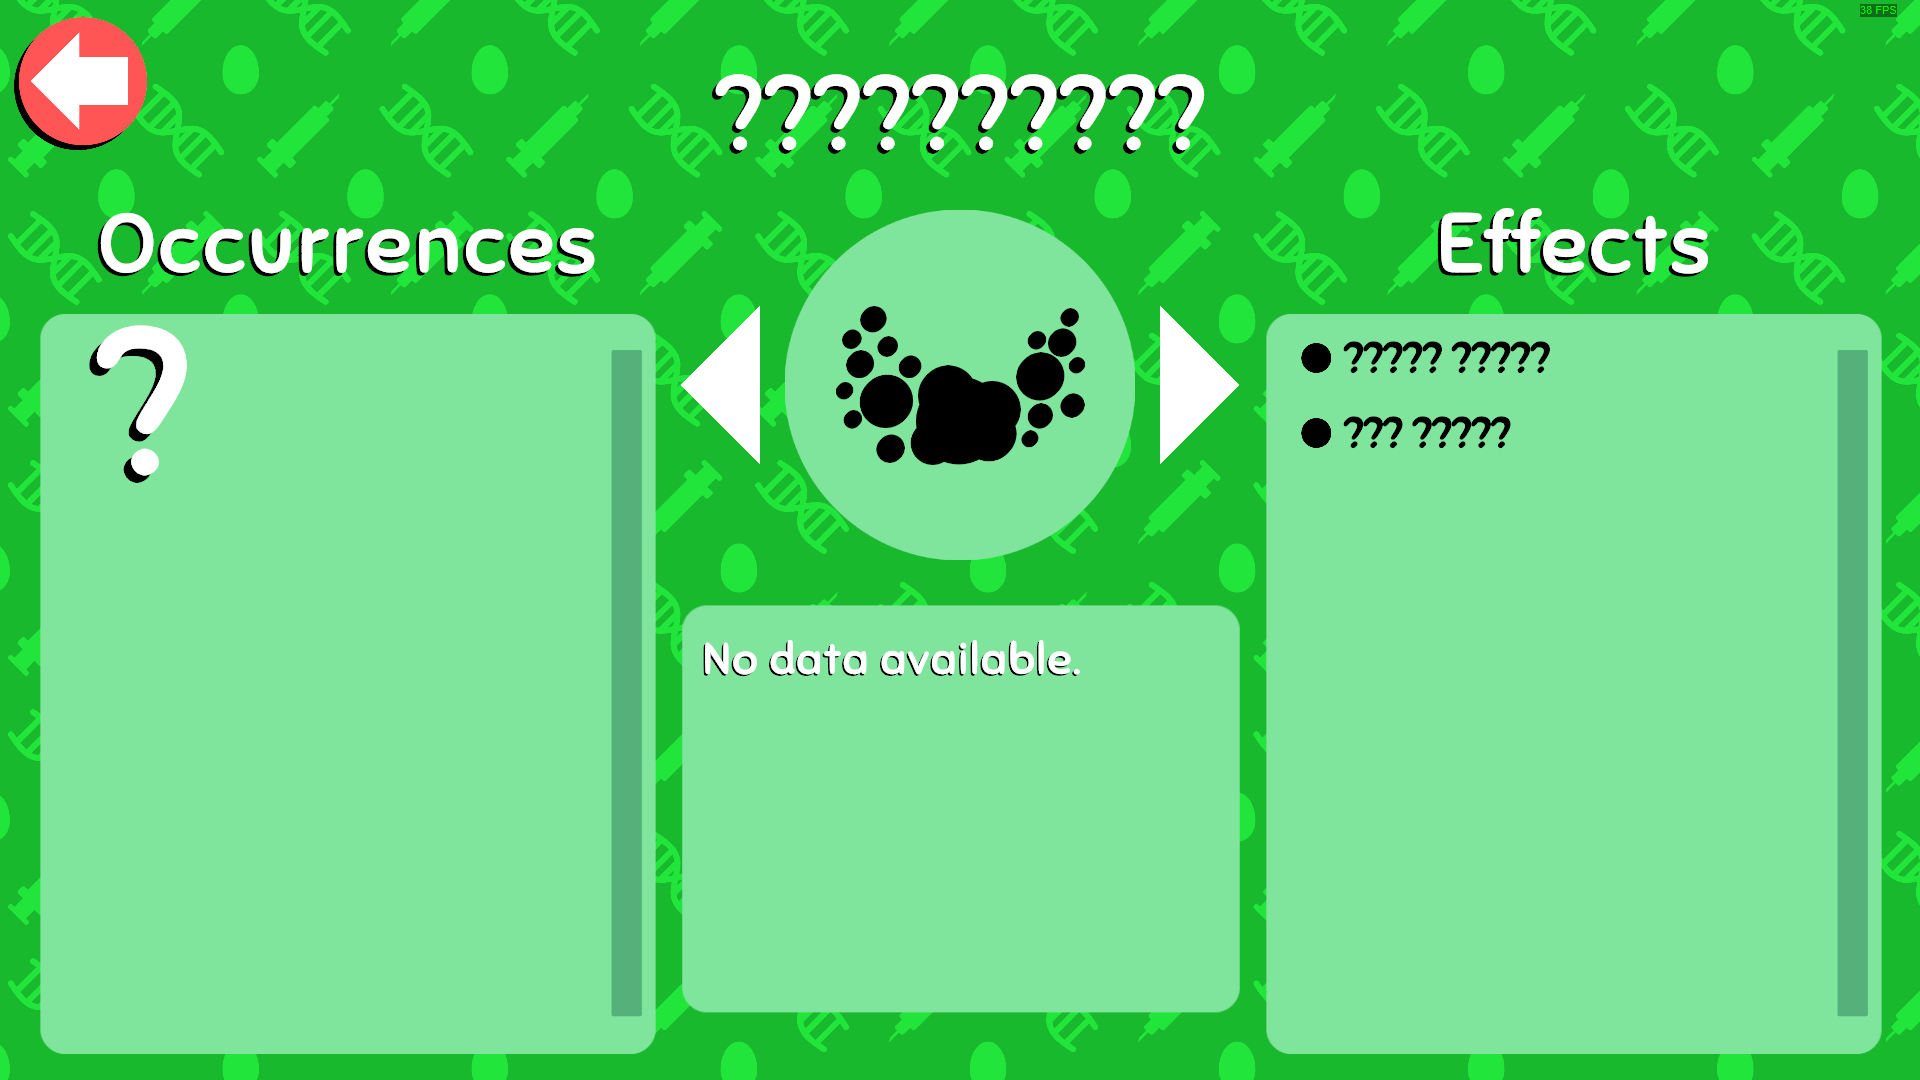
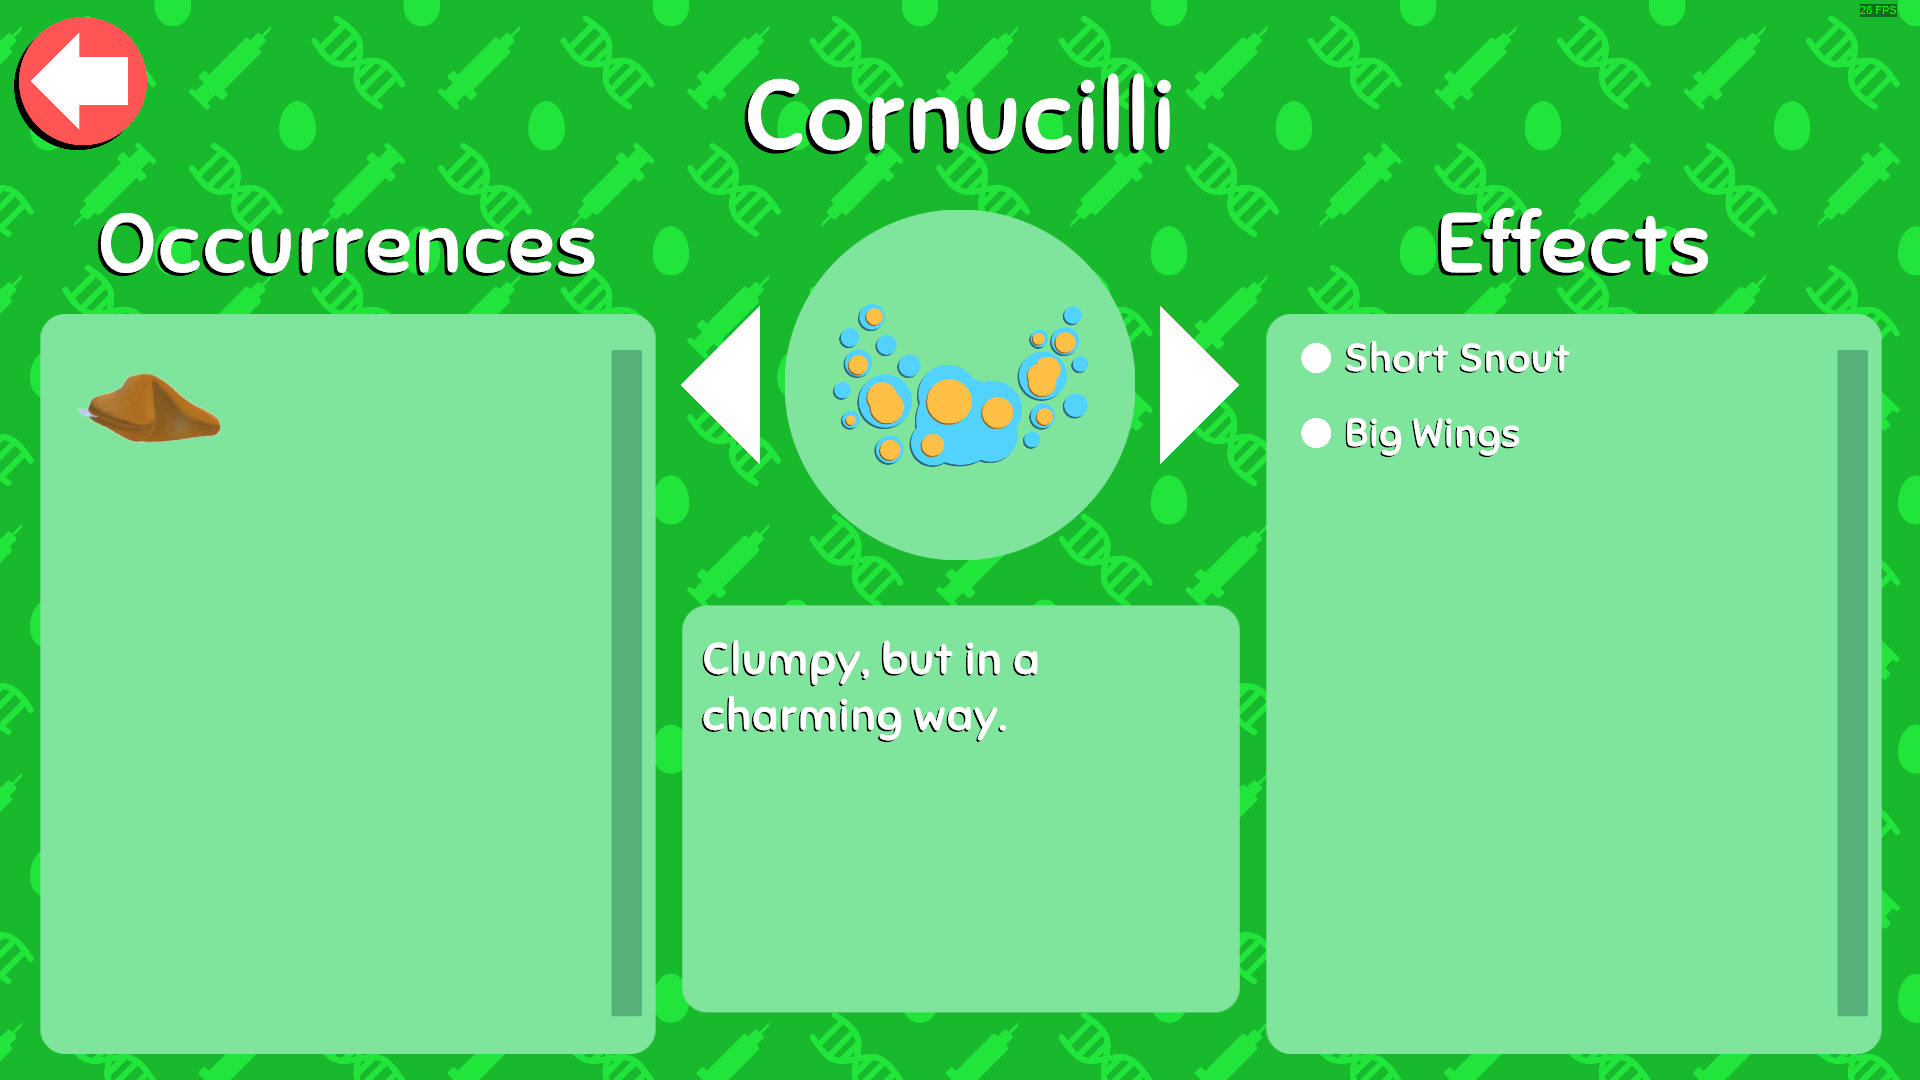
added fortune cookie

diff --git a/src/flora.ts b/src/flora.ts
@@ -140,12 +140,12 @@ export const contrarialius: Flora = {
   rarities: [triangle, circle],
 };
 
-export const flora13: Flora = {
-  name: "??????????",
+export const cornucilli: Flora = {
+  name: "Cornucilli",
   image: "flora_1_3",
-  description: "No data available.",
-  foods: [food.unknown],
-  effects: [effect.unknown, effect.unknown],
+  description: "Clumpy, but not in a charming way.",
+  foods: [food.fortuneCookie],
+  effects: [effect.shortSnout, effect.bigWings],
   rarities: [circle, circle],
 };
 
@@ -498,7 +498,7 @@ export const floras: Flora[] = [
   clisotriumLatriphilius,
   flora11,
   contrarialius,
-  flora13,
+  cornucilli,
   crysalia,
   candidaNeutralia,
   dirt,

diff --git a/src/food.ts b/src/food.ts
@@ -141,6 +141,10 @@ export const fishPellet: Food = {
   name: "Fish Pellet",
   image: "fish-pellet",
 };
+export const fortuneCookie: Food = {
+  name: "Fortune Cookie",
+  image: "fortune-cookie",
+};
 export const frenchFry: Food = {
   name: "French Fry",
   image: "french-fry",
@@ -272,6 +276,7 @@ export const foods: Food[] = [
   doughnut,
   emptyCocoon,
   fishPellet,
+  fortuneCookie,
   frenchFry,
   fruitCake,
   garlicBread,

diff --git a/src/effect.ts b/src/effect.ts
@@ -67,6 +67,7 @@ export const lightGreenLegs: Effect = { name: "Light Green Legs" };
 export const greenBody: Effect = { name: "Green Body" };
 export const darkGreenPattern: Effect = { name: "Dark Green Pattern" };
 export const blackBody: Effect = { name: "Black Body" };
+export const bigWings: Effect = { name: "Big Wings" };
 
 export const effects: Effect[] = [
   unknown,

diff --git a/src/images.py b/src/images.py
@@ -106,6 +106,7 @@ def crop_grid_from_folder(source_folder, output_folder, low_variance_output_fold
         "flora-1-1-food-0-0": "fish-pellet",
         "flora-1-0-food-1-0": "cheese-ball",
         "flora-1-2-food-1-0": "pumpkin-pie",
+        "flora-1-3-food-0-0": "fortune-cookie",
         "flora-1-4-food-0-1": "empty-cocoon",
         "flora-1-6-food-0-0": "dirt-clump",
         "flora-1-7-food-0-0": "ham-slider",
